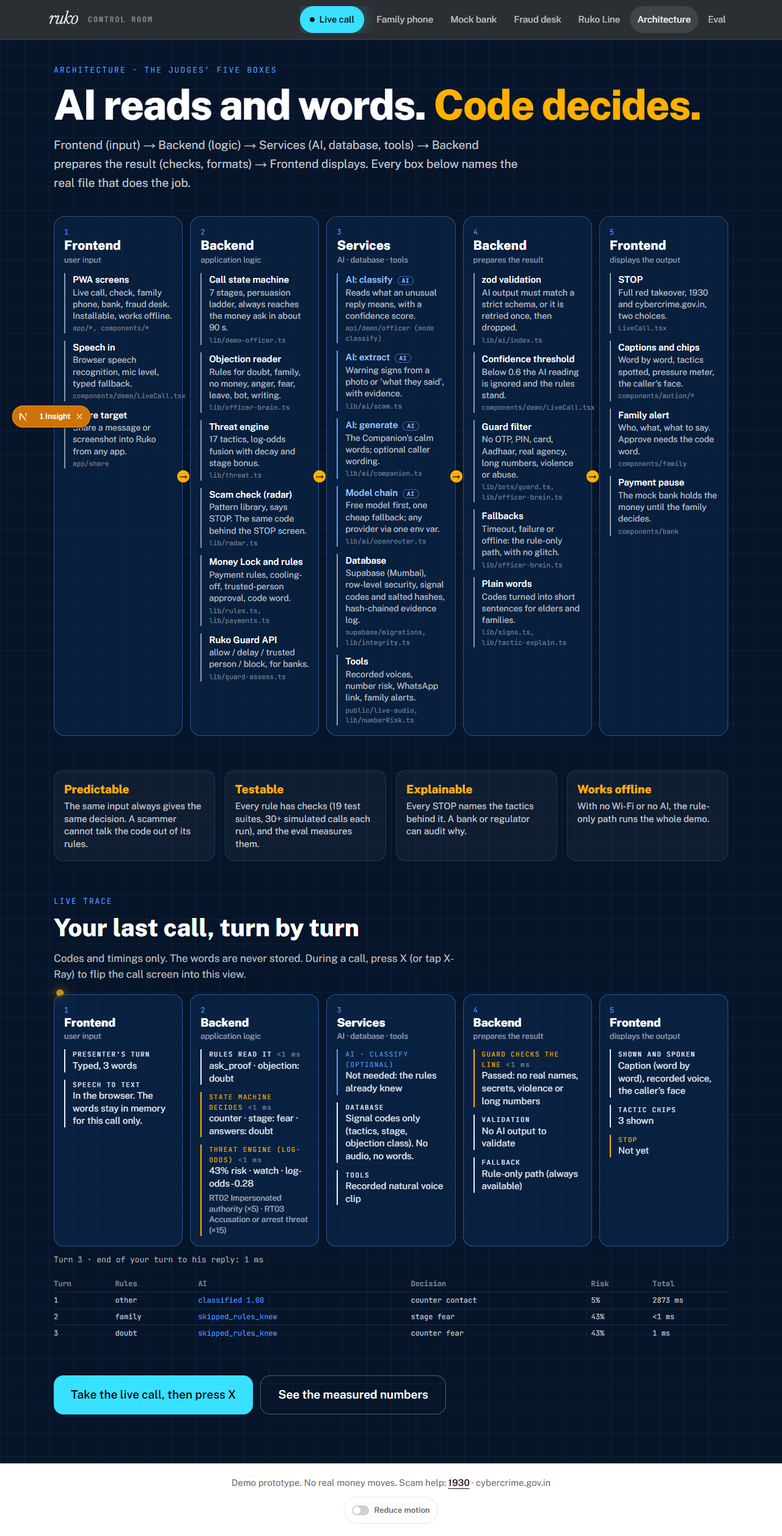
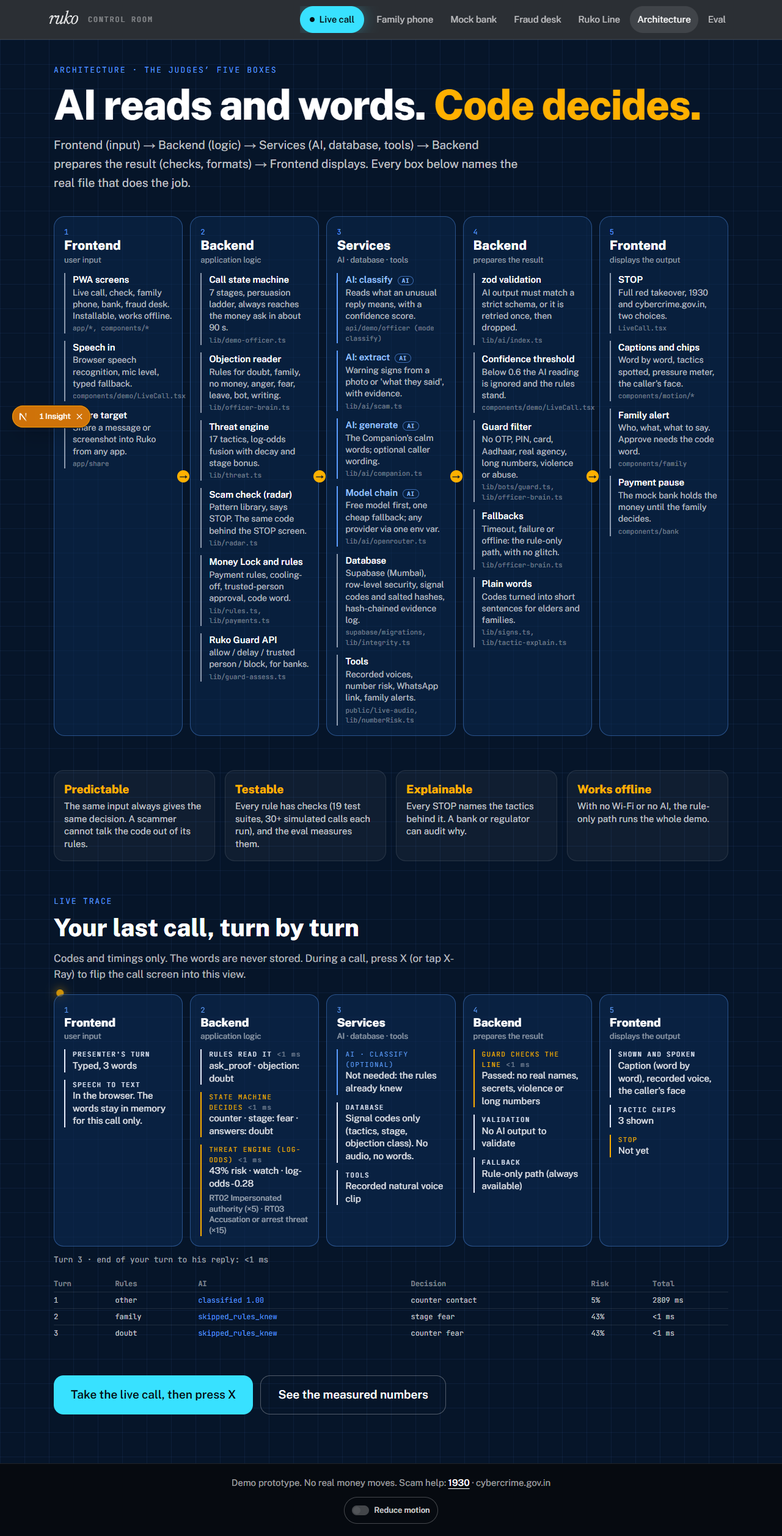
Director keys, fixed script, pitch deck, loss ticker, solution/pitch/submission/video docs, name and clip-retry fixes

Changed region(s): [[0.0, 0.9304, 1.0, 1.0]]

diff --git a/app/components/tech/PitchDeck.tsx b/app/components/tech/PitchDeck.tsx
@@ -1,0 +1,141 @@
+"use client";
+
+import Link from "next/link";
+import { useCallback, useEffect, useState } from "react";
+import results from "@/data/eval-results.json";
+
+// /pitch: seven full-screen slides for the projector. Arrow keys, space, or the buttons. Every number is sourced or measured.
+
+const pct = (x: number) => `${Math.round(x * 1000) / 10}%`;
+
+function Slide({ kicker, children }: { kicker: string; children: React.ReactNode }) {
+  return (
+    <div className="m-route flex h-full flex-col justify-center">
+      <p className="font-mono text-[16px] tracking-[0.18em] text-[#38e1ff] uppercase">{kicker}</p>
+      <div className="mt-4">{children}</div>
+    </div>
+  );
+}
+
+const SLIDES: React.ReactNode[] = [
+  <Slide key="1" kicker="Cyber fraud in India">
+    <p className="text-[clamp(64px,13vw,190px)] leading-[0.9] font-bold tracking-tight">
+      ₹7,200 <span className="text-white/60">every second</span>
+    </p>
+    <p className="mt-6 max-w-4xl text-[clamp(20px,2.4vw,30px)] text-white/80">
+      ₹22,845 crore lost in 2024. Digital-arrest cases doubled in a year: 60,676 → 1,23,672.
+    </p>
+    <p className="mt-4 text-[16px] text-white/45">Average per second from the 2024 reported total (MHA, via Scroll). Case numbers: government reply in Parliament (via Outlook Money, Inc42).</p>
+  </Slide>,
+  <Slide key="2" kicker="Why it is hard">
+    <p className="text-[clamp(44px,7vw,100px)] leading-[1] font-bold tracking-tight">Authority. Secrecy. A deadline.</p>
+    <p className="mt-8 max-w-4xl text-[clamp(24px,3vw,40px)] leading-snug text-white/85">
+      They are not foolish. They are scared. And <span className="text-[#FFB000]">a perfect voice is no proof of identity.</span>
+    </p>
+    <p className="mt-6 text-[clamp(20px,2.2vw,28px)] text-white/70">So Ruko does not try to win the argument. It protects the moment the money moves.</p>
+  </Slide>,
+  <Slide key="3" kicker="Three layers">
+    <div className="grid gap-5 sm:grid-cols-3">
+      {[
+        ["Before the call", "The family sets Ruko up: code word, trusted people, a Rule Card."],
+        ["During the call", "Pressure, secrecy, a made-up case: a big STOP, and the family is told."],
+        ["At the money", "The payment waits. Approving it needs the family's code word."],
+      ].map(([t, d]) => (
+        <div key={t} className="rounded-[24px] border border-white/15 bg-white/[0.05] p-7">
+          <h3 className="text-[clamp(26px,2.6vw,38px)] font-bold">{t}</h3>
+          <p className="mt-3 text-[clamp(18px,1.8vw,24px)] leading-snug text-white/75">{d}</p>
+        </div>
+      ))}
+    </div>
+  </Slide>,
+  <Slide key="4" kicker="Live demo">
+    <p className="text-[clamp(52px,9vw,130px)] leading-[0.95] font-bold tracking-tight">Take the call.</p>
+    <p className="mt-6 text-[clamp(22px,2.6vw,34px)] text-white/80">You are 72. A fake officer rings. Resist him.</p>
+    <Link href="/demo/live" className="mt-10 inline-flex min-h-[84px] items-center rounded-[20px] bg-[#38e1ff] px-10 text-[30px] font-semibold text-[#041016]">
+      Take a live scam call →
+    </Link>
+    <p className="mt-4 font-mono text-[16px] text-white/45">or press 2 · press X during the call for X-Ray</p>
+  </Slide>,
+  <Slide key="5" kicker="AI logic and architecture">
+    <p className="text-[clamp(44px,7vw,100px)] leading-[1] font-bold tracking-tight">
+      AI reads and words. <span className="text-[#FFB000]">Code decides.</span>
+    </p>
+    <div className="mt-10 grid gap-3 sm:grid-cols-5">
+      {[
+        ["Frontend", "voice, typing"],
+        ["Backend", "state machine, threat engine, rules"],
+        ["Services", "AI classify (with confidence), database, voices"],
+        ["Backend", "zod, guard, fallbacks"],
+        ["Frontend", "STOP, captions, family, payment pause"],
+      ].map(([t, d], i) => (
+        <div key={i} className="rounded-[18px] border border-[#5b9dff]/50 bg-[#0b2a52]/60 p-4">
+          <p className="font-mono text-[14px] text-[#5b9dff]">{i + 1}</p>
+          <p className="text-[22px] font-bold">{t}</p>
+          <p className="mt-1 text-[16px] leading-snug text-white/70">{d}</p>
+        </div>
+      ))}
+    </div>
+    <p className="mt-6 text-[clamp(18px,2vw,26px)] text-white/70">Predictable. Testable. Explainable. Works offline.</p>
+  </Slide>,
+  <Slide key="6" kicker="Measured (synthetic data, npm run eval)">
+    <div className="grid gap-5 sm:grid-cols-2 lg:grid-cols-4">
+      {[
+        [`${results.guard.rejected}/${results.guard.total}`, "unsafe AI outputs blocked"],
+        [pct(results.scamCheck.stop.falseAlarm), "false STOPs on genuine calls"],
+        [pct(results.reading.accuracy.hybrid), "replies read correctly (hybrid)"],
+        [`${results.simulatedCalls.unsafe}`, `unsafe lines in ${results.simulatedCalls.calls} simulated calls`],
+      ].map(([b, s]) => (
+        <div key={s} className="rounded-[22px] border border-white/15 bg-white/[0.05] p-6">
+          <p className="font-mono text-[clamp(44px,5vw,72px)] leading-none font-bold text-[#FFB000]">{b}</p>
+          <p className="mt-3 text-[clamp(17px,1.6vw,22px)] leading-snug text-white/80">{s}</p>
+        </div>
+      ))}
+    </div>
+    <p className="mt-6 text-[18px] text-white/55">Code steps take microseconds; the AI about 2 seconds, so the STOP never waits for it. Synthetic data, written by us: not field results.</p>
+  </Slide>,
+  <Slide key="7" kicker="Next">
+    <ul className="flex flex-col gap-4 text-[clamp(24px,2.8vw,38px)] leading-snug">
+      <li>1. Field test with 10 older adults (protocol ready).</li>
+      <li>2. A pilot bank calling the Ruko Guard API.</li>
+      <li>3. Android call screening on real phones.</li>
+    </ul>
+    <p className="mt-12 max-w-5xl text-[clamp(24px,3vw,40px)] leading-snug font-semibold">
+      Either way, the money didn&rsquo;t move. Ruko doesn&rsquo;t try to win the argument with a scammer. <span className="text-[#38e1ff]">It protects the moment that matters.</span>
+    </p>
+  </Slide>,
+];
+
+export function PitchDeck() {
+  const [i, setI] = useState(0);
+  const go = useCallback((d: number) => setI((n) => Math.max(0, Math.min(SLIDES.length - 1, n + d))), []);
+  useEffect(() => {
+    const k = (e: KeyboardEvent) => {
+      if (e.key === "ArrowRight" || e.key === " " || e.key === "PageDown") {
+        e.preventDefault();
+        go(1);
+      } else if (e.key === "ArrowLeft" || e.key === "PageUp") go(-1);
+    };
+    window.addEventListener("keydown", k);
+    return () => window.removeEventListener("keydown", k);
+  }, [go]);
+  return (
+    <div className="fixed inset-0 z-50 flex flex-col bg-[#060a10] px-[6vw] py-[5vh] text-white">
+      <div key={i} className="min-h-0 flex-1">
+        {SLIDES[i]}
+      </div>
+      <div className="flex items-center justify-between gap-4">
+        <button onClick={() => go(-1)} disabled={i === 0} className="min-h-12 rounded-full border border-white/25 px-5 text-[16px] disabled:opacity-30">
+          ← Back
+        </button>
+        <div className="flex gap-2" aria-label={`Slide ${i + 1} of ${SLIDES.length}`}>
+          {SLIDES.map((_, k) => (
+            <button key={k} onClick={() => setI(k)} aria-label={`Slide ${k + 1}`} className={`h-2.5 rounded-full transition-all ${k === i ? "w-8 bg-[#38e1ff]" : "w-2.5 bg-white/30"}`} />
+          ))}
+        </div>
+        <button onClick={() => go(1)} disabled={i === SLIDES.length - 1} className="min-h-12 rounded-full border border-white/25 px-5 text-[16px] disabled:opacity-30">
+          Next →
+        </button>
+      </div>
+    </div>
+  );
+}

diff --git a/app/components/tech/HomeSections.tsx b/app/components/tech/HomeSections.tsx
@@ -135,3 +135,31 @@ export function ProofPoints() {
     </section>
   );
 }
+
+/** ₹ lost since the page opened, at the average rate from the 2024 reported total (₹22,845 crore a year). Not live data. */
+const PER_SECOND = 22845e7 / (365 * 24 * 3600);
+export function LossTicker() {
+  const ok = useMotionOk();
+  const [secs, setSecs] = useState(0);
+  useEffect(() => {
+    if (!ok) return;
+    const t0 = performance.now();
+    const id = setInterval(() => setSecs((performance.now() - t0) / 1000), 100);
+    return () => clearInterval(id);
+  }, [ok]);
+  return (
+    <div className="mt-6 rounded-[18px] border border-white/10 bg-white/[0.03] px-5 py-4">
+      {ok ? (
+        <p className="text-[17px] text-white/75">
+          Since you opened this page, Indians have lost about{" "}
+          <span className="font-mono text-[26px] font-bold text-[#FFB000] tabular">₹{Math.round(secs * PER_SECOND).toLocaleString("en-IN")}</span> to cyber fraud.
+        </p>
+      ) : (
+        <p className="text-[17px] text-white/75">
+          Indians lose about <span className="font-mono text-[26px] font-bold text-[#FFB000]">₹7,200 every second</span> to cyber fraud.
+        </p>
+      )}
+      <p className="mt-1 text-[13px] text-white/45">An average from the 2024 reported total of ₹22,845 crore (Ministry of Home Affairs, via Scroll). Not live data.</p>
+    </div>
+  );
+}

diff --git a/app/app/page.tsx b/app/app/page.tsx
@@ -5,7 +5,7 @@ import { Chip, TechBackdrop } from "@/components/tech/TechBackdrop";
 import { FeatureGrid, LiveCallCard } from "@/components/tech/FeatureGrid";
 import { flags } from "@/lib/flags";
 import { Reveal, RotatingWords, WordByWord } from "@/components/motion/motion";
-import { FactsStrip, HeroCaller, HowSaves, ProofPoints } from "@/components/tech/HomeSections";
+import { FactsStrip, HeroCaller, HowSaves, LossTicker, ProofPoints } from "@/components/tech/HomeSections";
 
 // The front door for judges: the live scam call first, then every other part of Ruko as a card, in any order.
 // Calm, large-type elder screens live elsewhere (/check, /companion, /family ...); this page is the control room.
@@ -47,6 +47,7 @@ export default function Home() {
           Scammers pose as police and keep older people on a call until they pay. Ruko listens for the pressure, steps in with one word, and brings the family in.
         </p>
 
+        <LossTicker />
         <Link
           href="/demo/live"
           className="press m-tap mt-6 inline-flex min-h-[72px] items-center gap-3 rounded-[18px] bg-[#38e1ff] px-8 text-[24px] font-semibold text-[#041016] shadow-[0_0_40px_rgba(56,225,255,0.35)] transition hover:brightness-110 focus-visible:outline-2 focus-visible:outline-offset-4 focus-visible:outline-white"

diff --git a/app/lib/demo-officer.ts b/app/lib/demo-officer.ts
@@ -195,6 +195,8 @@ export function officerNext(state: OfficerState, said: string | Intent, elapsedM
   const raw = typeof said === "string" && !INTENTS_SET.has(said);
   const objection: Objection | null = raw ? (objectionOf(said) ?? hint) : null;
   const gave = raw ? extractName(said) : null;
+  // A name given now is used from the next turn on (the line for this turn is already chosen).
+  const nameBefore = state.name;
   if (gave && !state.name) state = { ...state, name: gave };
   // After the payment ask: the closing line once, then nothing more to say.
   if (state.stage >= PAYMENT) {
@@ -217,7 +219,7 @@ export function officerNext(state: OfficerState, said: string | Intent, elapsedM
     if (objection) {
       const rung = 3 - state.counterBudget + state.stage;
       const last = state.said[state.said.length - 1] ?? "";
-      const text = withName(objectionReply(objection, rung, lang, last), state.name, lang);
+      const text = withName(objectionReply(objection, rung, lang, last), nameBefore, lang);
       const tactic = OBJ_TACTIC[objection];
       const s: OfficerState = {
         ...state,

diff --git a/app/components/demo/LiveCall.tsx b/app/components/demo/LiveCall.tsx
@@ -376,15 +376,24 @@ export function LiveCall({ elderId, demo, trusted }: { elderId: string; demo: bo
         a.playbackRate = role === "officer" ? Math.min(1.04, 1 + urgencyRef.current * 0.007) : 1;
         activeClip = a;
         a.onended = next;
-        a.onerror = () => {
+        // A clip that fails to load is retried once; only then does the browser voice read the line. A clip that was
+        // stopped on purpose (hush, a newer line) is ignored, so nothing ever speaks twice.
+        const fail = () => {
+          if (a.dataset.failed || finished || activeClip !== a) return;
+          a.dataset.failed = "1";
+          if (!retried) {
+            retried = true;
+            k--;
+            setTimeout(next, 150);
+            return;
+          }
           if (k === 1) browserVoice();
           else finish("done");
         };
-        a.play().catch(() => {
-          if (k === 1) browserVoice();
-          else finish("done");
-        });
+        a.onerror = fail;
+        a.play().catch(fail);
       };
+      let retried = false;
       next();
     });
   }, []);

diff --git a/app/lib/officer-brain.ts b/app/lib/officer-brain.ts
@@ -162,10 +162,10 @@ export function redactForAi(text: string): string {
   return text.replace(/\d[\d\s,.-]{2,}\d/g, "[number]").replace(/\b\d{3,}\b/g, "[number]").slice(0, 280);
 }
 
-/** A first name, if the person gave one ("my name is Asha", "main Ramesh hoon"). Kept in memory for the call only. */
+/** A first name, if the person gave one ("my name is Asha", "mera naam Ramesh hai"). Kept in memory for the call only. */
 export function extractName(text: string): string | null {
   const m =
-    /\b(?:my name is|this is|i am|i'm|myself|mera naam|mera nam|main)\s+([A-Z][a-z]{2,14})\b(?!\s+(?:not|scared|afraid|going|sure|just|very|so|a|an|the|hoon|hun|bol|from|calling|your))/i.exec(text) ??
+    /\b(?:my name is|myself|mera naam|mera nam)\s+([A-Z][a-z]{2,14})\b(?!\s+(?:not|scared|afraid|going|sure|just|very|so|a|an|the|hoon|hun|bol|from|calling|your))/i.exec(text) ??
     /\bnaam\s+([A-Z][a-z]{2,14})\s+(?:hai|hain)\b/i.exec(text);
   if (!m) return null;
   const n = m[1];

diff --git a/app/components/SiteChrome.tsx b/app/components/SiteChrome.tsx
@@ -9,8 +9,8 @@ import { MotionToggle } from "@/components/motion/motion";
 function Inner() {
   const path = usePathname() ?? "/";
   const embed = useSearchParams().get("embed");
-  if (embed || path.startsWith("/demo/live")) return null;
-  const dark = path === "/" || path === "/demo" || path.startsWith("/demo/how");
+  if (embed || path.startsWith("/demo/live") || path.startsWith("/pitch")) return null;
+  const dark = path === "/" || path === "/demo" || path.startsWith("/demo/how") || path.startsWith("/architecture") || path.startsWith("/eval");
   return (
     <footer className={`mt-auto border-t px-6 py-5 text-center text-[15px] ${dark ? "border-white/10 bg-[#060a10] text-white/60" : "border-hair text-ink-soft"}`}>
       Demo prototype. No real money moves. Scam help:{" "}

diff --git a/app/app/pitch/page.tsx b/app/app/pitch/page.tsx
@@ -1,0 +1,8 @@
+import type { Metadata } from "next";
+import { PitchDeck } from "@/components/tech/PitchDeck";
+
+export const metadata: Metadata = { title: "Pitch" };
+
+export default function PitchPage() {
+  return <PitchDeck />;
+}

diff --git a/docs/DECISIONS.md b/docs/DECISIONS.md
@@ -348,3 +348,15 @@ Built on a branch, **not merged and not deployed to the live address**, so the v
 - **Expression is code, not AI** (`lib/caller-expression.ts`), from the stage and the tactic in use.
 - **Skipped today:** the 3D-feeling shared-element transition from the hero button to the call, View Transitions API, skeleton loaders, sound, a per-route polish pass beyond what the sweep found (no overflow or console errors on 17 routes at 390 and 1280 wide), and a hand-drawn arrow to the main button.
 - **Measured:** Lighthouse mobile, same machine, baseline = `main` before this work, then the new build: / 80 and 79, now 76 (home grew: animated face, facts strip, more sections); /demo/call 79, now 79; /bank 80 and 76, now 80 and 74. Accessibility 100 on all after fixing a list-markup error on the new home. Whole static bundle 2,965 KB to 2,988 KB (+23 KB). Offline presenter mode contacts only localhost and both endings pass.
+
+## 23 Oct: score-first build for the judging (owner's choice)
+
+- **Owner chose "score-first"** over the full "SIGNAL" re-skin: build what earns marks on top of the current look. The SIGNAL identity (new fonts, colours, road-sign graphics) is skipped for today.
+- **X-Ray** (press X in the call) and **/architecture**: every turn is traced through the judges' five boxes (rules, AI classify with confidence, state-machine decision, threat engine log-odds, guard, output), with timings. Codes and numbers only; the last call's trace is kept in the browser tab's session storage so /architecture can replay it. With no call yet, a clearly labelled synthetic sample is shown.
+- **AI confidence threshold 0.6**: the classifier now returns a confidence; below 0.6 its reading is ignored and the rules stand.
+- **Eval** (`npm run eval`, docs/EVAL.md, /eval): 66 presenter replies, 45 caller lines, 22 adversarial and 5 safe AI outputs, all synthetic. Results (23 Oct): reading accuracy rules 75.8%, AI 93.9%, hybrid 90.9%; hybrid fallback 5.3%; guard 22/22 blocked, 5/5 safe allowed; scam check false alarms 0% on 20 genuine lines (STOP recall on single lines 20%, any warning 72%); 120 simulated calls in time, 0 unsafe lines; AI median 2.2 s. AI answers are cached in data/eval-ai-cache.json. **The rules were not tuned on this set**, so the misses are reported as found (for example "I refuse to pay" read as "no money").
+- **Facts:** the brief's "₹22,495 crore in 2025" and "17,264 cases in 2025" could not be verified earlier, so they are not used. "About ₹7,200 every second" is our arithmetic from the verified 2024 total of ₹22,845 crore, labelled as an average, not live data.
+- **Director mode:** keys on every page (1 home, 2 live call, 3 architecture, 4 family, 5 bank, 6 eval, X X-Ray, R reset, F motion, ? help) and a **Fixed script** switch on /demo (same wordings, no AI reading) for rehearsals and recording.
+- **Bugs found and fixed while testing:** a false "name" ("this is nonsense" became "Nonsense ji, ...") which made a line unrecorded and spoken by the browser voice; names now come only from "my name is / mera naam / myself" and are used from the next turn. A clip that fails to load is retried once before the browser voice is used, and a clip stopped on purpose can no longer trigger the browser voice.
+- **Docs:** AUDIT.md (five expert notes), SOLUTION.md, PITCH.md, VIDEO-SCRIPT.md, SUBMISSION.md; ARCHITECTURE.md and JUDGE-QA.md extended; /pitch (7 slides, arrow keys).
+- **Skipped today:** the SIGNAL identity and /styleguide, the octagon STOP with the eight tactic edges, Ending B money-flow animation, device handoff, Scam DNA card, /how-it-works page (SOLUTION.md covers it), sound, scroll story.

diff --git a/docs/SOLUTION.md b/docs/SOLUTION.md
@@ -1,0 +1,33 @@
+# Ruko: solution thinking
+
+## The problem (sourced)
+- **₹22,845 crore** lost to cyber fraud in India in 2024, up from ₹7,465 crore in 2023 (Ministry of Home Affairs reply in Parliament, July 2025, via Scroll). That averages **about ₹7,200 every second** (our arithmetic: the 2024 total divided by the seconds in a year; an average, not live data).
+- **1,03,488** financial cyber fraud complaints from senior citizens in 2025, with losses of about **₹4,005 crore** (MHA written reply in the Rajya Sabha, via Asianet Newsable).
+- **Digital arrest** cases: **60,676 in 2023 → 1,23,672 in 2024**, about double, with about ₹1,935 crore lost in 2024 (government reply in Parliament, via Outlook Money and Inc42).
+- **47%** of Indian adults in a 2023 survey had experienced an AI voice scam or knew someone who had (McAfee, The Artificial Imposter, 1,010 Indian respondents). That AI will make these scams rise again is **our hypothesis**, not a measured trend.
+- Not used because we could not verify them: a 2025 total of ₹22,495 crore, 17,264 digital-arrest cases in 2025.
+
+## Why awareness alone breaks
+Under fear, a person stops checking. The caller adds authority (a badge, a case number), isolation ("tell no one"), and a deadline. People who "know about scams" still pay, because in the moment it does not feel like a scam. And a perfect voice is no proof of identity, so the defence cannot be "spot the fake voice".
+
+## Ruko: three layers, before the money moves
+| Layer | What it does | Built | Next |
+|---|---|---|---|
+| **Before** | Family sets Ruko up: code word, trusted people, test alert, printable Rule Card | Yes (/setup) | Assisted setup in shops and clinics |
+| **During** | Spots pressure, secrecy and a made-up case; a big STOP; family alerted | Yes (live call, /check, Ruko Line) | Android call screening (logic built and tested; app not run on a device) |
+| **At the money** | Money Lock pauses a risky payment; family approves only with the code word; Ruko Guard API for banks | Yes on a mock bank (/bank) | A pilot bank calling Ruko Guard |
+
+## Real-world fit
+- **RBI discussion paper (reported April 2026, a draft):** a one-hour delay above ₹10,000, a trusted person for customers 70+, a kill switch. Ruko Guard implements these as changeable rules, labelled "draft".
+- **DoT Financial Fraud Risk Indicator:** rates numbers for banks; no public API. Ruko routes people to Chakshu and 1930.
+- **UPI Circle:** delegates spending to others; it is not family approval of the elder's own payment. Ruko adds that, with a code word.
+- **Google's call scam detection:** on newer Pixels, opt-in; sources disagree on languages. Ruko works on any phone, in Hinglish, with the family in the loop.
+
+## Ruko's edge
+Any phone (a PWA), English and Hinglish, the family loop, elder-first screens, and the payment moment itself. The AI reads and words; the code decides, so it is predictable, testable, explainable and works offline.
+
+## Distribution
+Families first (free, word of mouth, a shareable Rule Card). Then banks and payment apps through the **Ruko Guard API**: the only way to stop a real payment. Then telcos and Android call screening.
+
+## North star and honesty
+**The share of role-played scam calls where the person stops before paying.** Measured with 10 older adults (protocol in FIELD-TEST.md). **No field results exist yet.** The call is simulated in the app; a web app cannot ring a real phone. The bank is a mock; no money moves. Eval numbers are on synthetic data (EVAL.md).

diff --git a/docs/SUBMISSION.md b/docs/SUBMISSION.md
@@ -1,0 +1,30 @@
+# Ruko: submission (paste into a Google Doc, share as "Anyone with the link can view")
+
+**Ruko ("stop" in Hindi) stops digital-arrest scams before money moves.** ForgeX 2.0, problem P060, Money track.
+Live: https://ruko-seven.vercel.app · Live call: /demo/live · Architecture: /architecture · Eval: /eval
+
+## The problem
+Scammers posing as police keep older people on a call until they pay. ₹22,845 crore was lost to cyber fraud in India in 2024 (MHA, via Scroll); digital-arrest cases went from 60,676 in 2023 to 1,23,672 in 2024 (government reply, via Outlook Money and Inc42). Senior citizens filed 1,03,488 financial fraud complaints in 2025, losing about ₹4,005 crore (MHA, via Asianet Newsable).
+
+## User journeys
+1. **The older person (Kamala, 72):** a call rings → the caller pressures her → Ruko says STOP in plain words, with 1930 and cybercrime.gov.in → she hangs up, or, if she still pays, the payment waits.
+2. **The family (Priya):** gets a plain alert ("your mother may be on a scam call"), with what to say; approves or refuses a held payment, and approving needs the family code word.
+3. **The bank:** asks Ruko Guard before moving money: allow, delay, trusted person, or block, with reasons.
+
+## How AI is used (and where it is not)
+**AI reads and words. Code decides.**
+- AI **classifies** unclear replies in the live call (with a confidence score; below 0.6 it is ignored), **extracts** warning signs from a photo or "what they said", and **words** the Companion's calm replies.
+- **Code decides** everything that matters: the call's next move (a 7-stage state machine), the STOP (a pattern-based scam check), the risk (a threat engine with 17 tactics and log-odds fusion), the payment hold (rules and the code word), and every safety check (a guard that blocks OTP or PIN requests, real agency names, long numbers, violence and abuse).
+- Every AI output is validated against a strict schema; on a timeout, failure, low confidence or no network, the rule-only path runs. Everything works offline.
+
+## Measured (synthetic data, `npm run eval`)
+Reading replies: rules 75.8%, AI 93.9%, **hybrid 90.9%** (66 replies, 11 classes). Guard: **22 of 22** unsafe AI outputs blocked, 5 of 5 safe ones allowed. Scam check on genuine calls: **0% false alarms**. 120 simulated calls: payment ask reached in time in 120, **0 unsafe lines**. Code steps: under 0.1 ms each; AI round trip about 2.2 s median.
+
+## Tech stack
+Next.js 16 (PWA), React 19, Tailwind 4, TypeScript, zod; Supabase (Mumbai, row-level security, signal codes and salted hashes, hash-chained evidence log); OpenRouter (a free Gemma model first, Gemini Flash-Lite as backup); browser speech recognition; recorded natural Indian voices; Vercel. Android call-screening logic in Kotlin (tested, not yet run on a device).
+
+## Research
+RBI discussion paper on payment friction (reported April 2026, a draft); DoT's Financial Fraud Risk Indicator; NPCI's UPI Circle; Google's on-device scam detection; Android call screening. See RESEARCH-UPI-BANKS.md.
+
+## Honest limits
+The call is simulated inside the app (a web app cannot ring a real phone). The bank is a mock; no real money moves. The eval data is synthetic and ours. No field-test results exist yet; the protocol is ready (10 older adults, with and without Ruko).

diff --git a/docs/ARCHITECTURE.md b/docs/ARCHITECTURE.md
@@ -1,5 +1,17 @@
 # Ruko: architecture (one page)
 
+## The judges' five boxes (23 Oct)
+
+**AI reads and words. Code decides.** Live version: /architecture, and X-Ray (press X) inside the call shows every turn's real trace.
+
+| 1 Frontend (user input) | 2 Backend (application logic) | 3 Services | 4 Backend prepares the result | 5 Frontend displays |
+|---|---|---|---|---|
+| PWA screens; browser speech recognition, mic level, typed fallback; share target | Call state machine, 7 stages, persuasion ladder (lib/demo-officer.ts); objection rules (lib/officer-brain.ts); threat engine, 17 tactics, log-odds fusion (lib/threat.ts); scam check (lib/radar.ts); Money Lock and payment rules (lib/rules.ts, lib/payments.ts); Ruko Guard (lib/guard-assess.ts) | **AI** (classify, extract, generate; free model first, one cheap fallback; lib/ai/*); **Database** (Supabase, Mumbai, row-level security, signal codes, salted hashes, hash-chained evidence log); **Tools** (recorded voices, number risk, WhatsApp link, family alerts) | zod schema validation (retry once, then drop); confidence threshold 0.6; guard filter (lib/bots/guard.ts, guardAiReply); fallbacks on timeout, failure or offline; plain-language formatting | STOP takeover; word-by-word captions; tactic chips and pressure meter; the caller's face; family alert; payment pause |
+
+One live-call turn: speech → rules read it (µs) → if unclear and 3+ words, the AI classifies it with a confidence score (about 2.2 s; 3.2 s limit; below 0.6 ignored) → the state machine picks the move → the threat engine fuses the tactics → the guard checks the line → a recorded voice says it → captions, chips and the face update. Measured numbers: EVAL.md.
+
+Why code decides: predictable (a scammer cannot talk it out of its rules), testable (19 suites, simulated calls, the eval), explainable (every STOP names its tactics), and it works offline.
+
 **Job to be done:** When an older person is on a call with someone pretending to be police, customs or a bank, they want to know straight away that it is a scam and what to do next, so they hang up and do not transfer money.
 
 **Current workflow:** Phone rings → a "CBI officer" says "digital arrest" → fear, pressure, "don't tell anyone", "don't hang up" → the person doubts but has nobody to ask → transfers savings → family finds out later.
